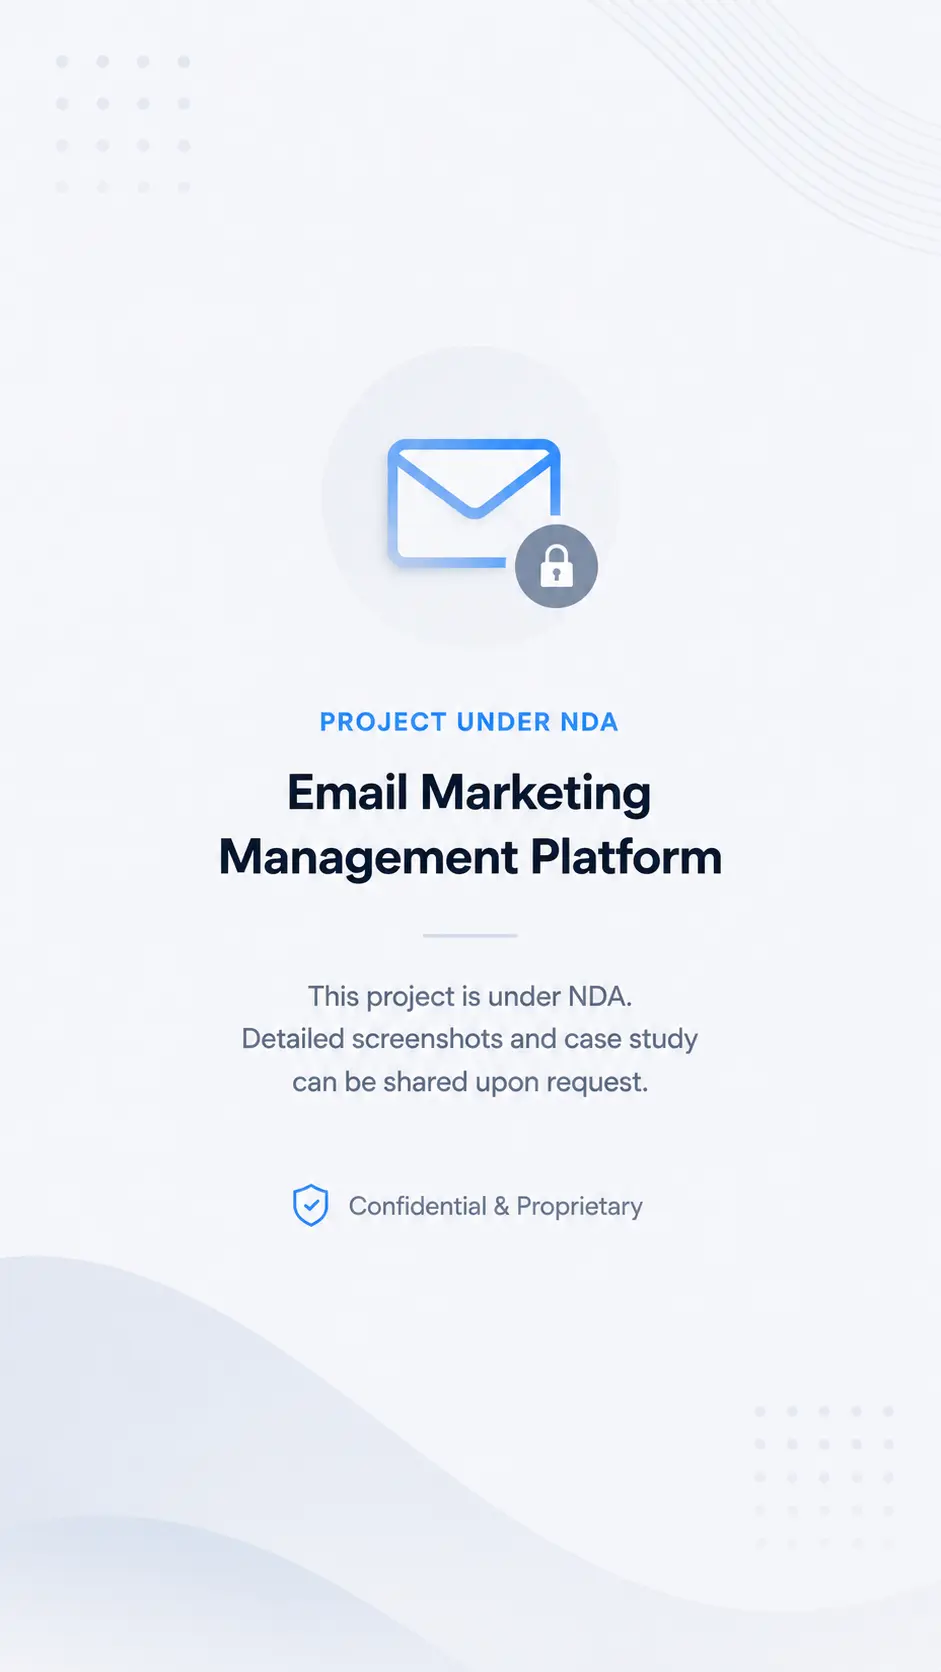
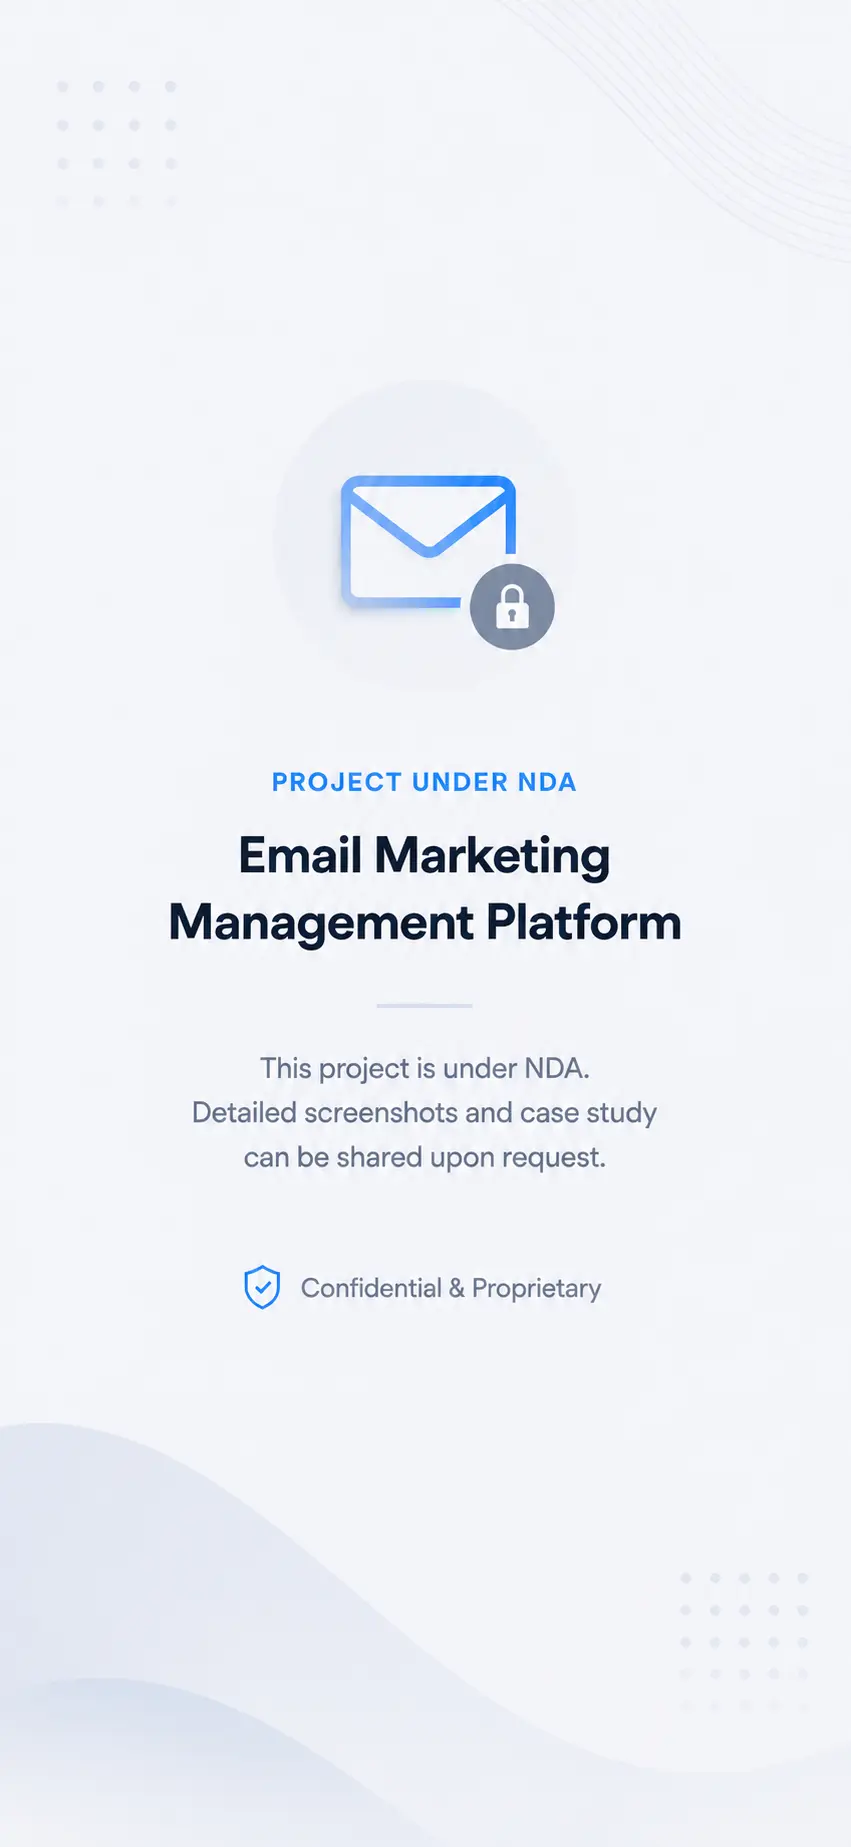
Move project descriptions to markdown
- JSON data is unstylable and hard to edit, so I moved project
descriptions to markdown files in the content directory.
This also allows me to add more detailed descriptions and images
for each project without cluttering the codebase.

diff --git a/pages/projects/index.tsx b/pages/projects/index.tsx
@@ -1,16 +1,23 @@
-import type { NextPage } from "next";
+import type { GetStaticProps, NextPage } from "next";
+import fs from "fs";
+import path from "path";
 import Head from "next/head";
 import HeroSection from "../../components/layout/HeroSection";
 import ProjectSection from "../../components/projects/ProjectSection";
 import heroImg from "../../assets/images/projects-pattern.webp";
 
 import { ProjectSectionProps } from "../../types";
-import items from "../../data/projects.json";
+import projectsData from "../../data/projects.json";
 
 import styles from "../../styles/Main.module.scss";
 
-const Projects: NextPage<ProjectSectionProps> = () => {
-  const itemsToShow = items.sort((a, b) => a.id - b.id);
+type ProjectItem = ProjectSectionProps["project"];
+
+type ProjectsPageProps = {
+  projects: ProjectItem[];
+};
+
+const Projects: NextPage<ProjectsPageProps> = ({ projects }) => {
   const title = "Projects list";
   const description = "List of things that I am working on.";
   const canonicalUrl = "https://jsmonkey.netlify.app/projects";
@@ -39,16 +46,26 @@ const Projects: NextPage<ProjectSectionProps> = () => {
       </Head>
       <main className={styles.main}>
         <HeroSection heading="Projects" image={heroImg} />
-        {itemsToShow.map((item, index) => (
-          <ProjectSection
-            key={item.id}
-            project={item}
-            animate={index > 0 ? true : false} // can't think of anything better right now (
-          />
+        {projects.map((item, index) => (
+          <ProjectSection key={item.id} project={item} animate={index > 0} />
         ))}
       </main>
     </div>
   );
+};
+
+export const getStaticProps: GetStaticProps<ProjectsPageProps> = () => {
+  const contentDir = path.join(process.cwd(), "content", "projects");
+
+  const projects = [...projectsData]
+    .sort((a, b) => a.id - b.id) // id controls display order of the projects
+    .map((item) => {
+      const filePath = path.join(contentDir, `${item.slug}.md`);
+      const description = fs.readFileSync(filePath, "utf-8");
+      return { ...item, description };
+    });
+
+  return { props: { projects } };
 };
 
 export default Projects;

diff --git a/components/projects/ProjectSection.module.sass b/components/projects/ProjectSection.module.sass
@@ -19,13 +19,36 @@
   margin: 0 auto
 
 .description
-  padding: 1rem
+  padding: 1.5rem
   margin: 0 auto
   max-width: $mdContMaxWidth
   display: flex
   flex-direction: column
   justify-content: center
-  
+  @media screen and (min-width: $large)
+    padding: 4rem
+  p
+    text-indent: 1.25rem
+    line-height: 1.5rem
+    margin-top: 0
+    margin-bottom: .4rem
+    @media screen and (min-width: $medium)
+      font-size: 1.25rem
+      line-height: 1.8rem
+  ul
+    padding-left: 1.5rem
+    margin-top: 0
+    margin-bottom: .8rem
+    list-style: disc
+  li
+    line-height: 1.5rem
+    margin-bottom: .3rem
+    @media screen and (min-width: $medium)
+      font-size: 1.25rem
+      line-height: 1.8rem
+  strong
+    font-weight: 600
+
 .projectTitle
   margin: 0
   font-weight: 400
@@ -34,15 +57,6 @@
   text-align: center
   @media screen and (min-width: $medium)
     font-size: 3.5rem
-
-.projectInfo
-  text-indent: 2rem
-  line-height: 1.5rem
-  margin-top: 0
-  margin-bottom: .4rem
-  @media screen and (min-width: $medium)
-    font-size: 1.25rem
-    line-height: 1.8rem
 
 .projectURL
   width: 100%

diff --git a/components/layout/Text/MainPageIntro.tsx b/components/layout/Text/MainPageIntro.tsx
@@ -10,9 +10,12 @@ const MainPageIntro: FC = () => {
       <p className={styles.pageParagraph}>
         I specialize in building modern, scalable web applications with a strong
         focus on front-end architecture, performance, and user experience. My
-        primary stack includes React, Next.js, TypeScript, Redux, TanStack
-        Query, Zustand, and modern JavaScript standards, allowing me to develop
-        maintainable and high-performing interfaces for complex products.
+        primary stack includes{" "}
+        <strong>
+          React, Next.js, TypeScript, Redux, TanStack Query, Zustand
+        </strong>
+        , and modern JavaScript standards, allowing me to develop maintainable
+        and high-performing interfaces for complex products.
       </p>
       <p className={styles.pageParagraph}>
         I have extensive experience designing reusable component systems,
@@ -22,9 +25,10 @@ const MainPageIntro: FC = () => {
         attention to detail and product quality.
       </p>
       <p className={styles.pageParagraph}>
-        On the back end, I work with Node.js, Express, MongoDB, and Mongoose to
-        build reliable APIs and scalable application infrastructure. I also work
-        with authentication systems, validation layers, and modern development
+        On the back end, I work with{" "}
+        <strong>Node.js, Express, MongoDB, and Mongoose</strong> to build
+        reliable APIs and scalable application infrastructure. I also work with
+        authentication systems, validation layers, and modern development
         tooling to support full-stack application development.
       </p>
       <p className={styles.pageParagraph}>
@@ -35,8 +39,13 @@ const MainPageIntro: FC = () => {
       </p>
       <p className={styles.pageParagraph}>
         Beyond implementation, I enjoy improving engineering processes,
-        exploring modern development patterns, and leveraging AI-assisted
-        workflows to increase productivity and code quality.
+        exploring modern development patterns, and integrating{" "}
+        <strong>AI-assisted</strong> workflows into development. I use AI as a
+        practical engineering tool for tasks such as{" "}
+        <strong>planning, debugging, refactoring, and accelerating</strong>{" "}
+        repetitive work, including building custom development agents and
+        structured workflow systems inside VSCode to improve productivity while
+        maintaining full control over architecture and code quality.
       </p>
       <p className={styles.pageParagraph}>
         I am fluent in English and a native speaker of Ukrainian and Russian.

diff --git a/components/projects/ProjectSection.tsx b/components/projects/ProjectSection.tsx
@@ -1,6 +1,7 @@
 import { FC } from "react";
 import Image from "next/image";
 import Link from "next/link";
+import ReactMarkdown from "react-markdown";
 
 import ProjectSlider from "../layout/Slider/ProjectSlider";
 import FadeIn from "../layout/Animation/FadeIn";
@@ -23,11 +24,7 @@ const ProjectSection: FC<ProjectSectionProps> = ({ project, animate }) => {
       </aside>
 
       <div className={styles.description}>
-        {description.map((par, index) => (
-          <p key={index} className={styles.projectInfo}>
-            {par}
-          </p>
-        ))}
+        <ReactMarkdown>{description}</ReactMarkdown>
 
         <div
           className={`${styles.divider} ${styles.divTransparent} ${styles.divStopper}`}

diff --git a/components/layout/Slider/ProjectSlider.module.sass b/components/layout/Slider/ProjectSlider.module.sass
@@ -5,6 +5,8 @@
 
 .slideContainer
   display: flex
+  @media screen and (min-width: $large)
+    min-width: 440px
 
 .slide
   flex: 0 0 100%

diff --git a/types.ts b/types.ts
@@ -26,7 +26,7 @@ export type ProjectSectionProps = {
     imageUrl: string;
     mobileImageUrl: string;
     images: string[];
-    description: string[];
+    description: string;
     logoImgs: string[];
   };
 };

diff --git a/components/layout/HeroSection.module.sass b/components/layout/HeroSection.module.sass
@@ -2,6 +2,7 @@
 
 .parallax
   height: 14rem
+  background-color: black
   @media screen and (min-width: $medium)
     height: 18rem
   @media screen and (min-width: $large)

diff --git a/content/projects/sharlushka.md b/content/projects/sharlushka.md
@@ -1,0 +1,47 @@
+**Sharlushka** is a full-stack, Yahtzee-inspired dice game built as a **Progressive Web App (PWA)**. It was developed as a personal project to exercise **frontend architecture, real-time state management, and production-style game logic**, and evolved into a feature-complete multiplayer platform.
+
+The core gameplay follows the classic Yahtzee scoring model:
+
+- roll five dice,
+- lock the dice you want to keep,
+- re-roll up to two times,
+- select a scoring category.
+
+One of the most complex parts of the project was the **score evaluation engine**. It had to reliably detect combinations such as full house, straights, and other valid categories from a live dice board. That logic was implemented with careful edge-case handling and is covered by **unit tests**.
+
+### Multiplayer architecture
+
+Multiplayer is built on **Socket.IO WebSockets** and supports two players in a shared session with real-time game synchronization.
+
+The frontend is responsible for:
+
+- managing the socket connection lifecycle,
+- synchronizing turns between players,
+- keeping opponent state in sync,
+- isolating multiplayer flow in a dedicated Redux slice and custom hooks.
+
+### Authentication and analytics
+
+Players can register and persist their game history. Completed matches are stored in the backend and visualized on the stats page with **Recharts**.
+
+The **analytics dashboard** includes: combo distribution, win-rate tracking, score trends over time.
+
+### PWA implementation
+
+The application is installable across devices and uses **Workbox** for asset caching and service worker lifecycle management. Updates are handled gracefully, including user prompts when a new version becomes available.
+
+### Tech stack
+
+- React 19, TypeScript
+- Redux Toolkit + RTK Query
+- React Router 7
+- Socket.IO
+- dnd-kit for drag-and-drop dice interactions
+- Framer Motion for UI animations
+- react-hook-form + Zod for form validation
+- Recharts
+- Webpack 5 with a custom configuration
+- Sass modules
+- Netlify for hosting
+
+The main engineering challenges were the **deterministic scoring logic** and the later transition from a single-player application model to a **stateful real-time multiplayer architecture**.

diff --git a/content/projects/ongage.md b/content/projects/ongage.md
@@ -1,0 +1,36 @@
+**Ongage** is a large-scale, multi-tenant email marketing SaaS platform. I built and maintained the **React frontend** that gives marketers control over the full lifecycle of an email program — from subscriber acquisition and list management to campaign execution and post-campaign analysis.
+
+The product supports the entire email marketing workflow:
+
+- importing, segmenting, and exporting subscriber lists,
+- managing contact statuses and field-level data across millions of records,
+- creating, scheduling, and A/B testing email and SMS campaigns,
+- tracking real-time send statistics,
+- building automated journeys such as **welcome series** and **re-engagement flows** through a node-based drag-and-drop workflow editor,
+- configuring and switching between multiple **ESP** and **SMTP** delivery providers through a unified vendor management interface,
+- running bulk email validation against a third-party service with status tracking and downloadable results,
+- analyzing campaign performance through dashboards with overview charts, aggregate tables, and deliverability metrics.
+
+### AI features
+
+AI is integrated across the platform in three distinct layers:
+
+- **AI Analytics** — users can ask questions in plain English, such as _“Which campaigns had the highest open rate last month?”_, and receive structured results rendered as interactive charts alongside a conversational answer. A thumbs-up / thumbs-down feedback loop helps improve accuracy over time.
+- **AI Email Template Generator** — guides users through a short brief covering tone, audience, goal, language, and email type, then generates a fully styled HTML template that can be previewed and saved as a new message.
+- **CopilotKit AI assistant** — a persistent in-app chat sidebar that understands the current page context, can navigate across the application, and can create, update, or delete entities such as campaigns, segments, automations, and vendor connections on the user’s behalf. Relevant UI caches are refreshed automatically after each action through **MCP (Model Context Protocol)**.
+
+### Engineering architecture
+
+The frontend followed a strict **modular feature architecture**, where each domain owned its own API clients, Zustand stores, TanStack Query hooks, and UI components. This kept pages thin and business logic co-located.
+
+Key implementation details included:
+
+- a three-variant **TanStack Table** setup for server-paginated, client-paginated, and context-free tables,
+- persistent column visibility and column ordering,
+- Firebase authentication with token-refresh interceptors wired into all API and AI requests,
+- strict TypeScript across the codebase,
+- ESLint with `exhaustive-deps` enforced as an error,
+- Prettier formatting,
+- Husky pre-commit hooks to keep the codebase consistent across a large team.
+
+The main challenges were the scale of the data model, the complexity of multi-tenant UX flows, and keeping the frontend architecture maintainable while supporting a growing number of features and AI-driven interactions.

diff --git a/content/projects/rosterly.md b/content/projects/rosterly.md
@@ -1,0 +1,32 @@
+Agency Roster is a full-stack platform that connects marketing brands with creative and media agencies. Marketers can submit a search brief, receive an AI-generated shortlist of matched agencies ranked by compatibility, schedule introductory calls with selected candidates, and track the entire process through a unified dashboard. Agencies on the other side manage their profile, respond to incoming invitations, and submit proposals — all within the same application.
+
+The frontend is a single-page application built with **React 19** and **TypeScript**, bundled with **Vite** and styled using a combination of **Tailwind CSS** utility classes and **CSS Modules** written in SCSS syntax. Routing is handled by **React Router v7**, and all server state is managed through **TanStack Query v5** paired with **Axios**, which provides consistent caching, background refetching, and optimistic update patterns across the entire data layer. Data tables throughout the admin and marketer interfaces are powered by **TanStack Table v8**, offering column-level filtering, pagination, and sortable headers without sacrificing control over rendering.
+
+Authentication is delegated to **Stytch**, whose React SDK handles session management, magic links, and password flows. The resulting session token is stored in a React context and consumed by a shared hook throughout the component tree, enabling granular role-based rendering for the three distinct user roles: **admin**, **marketer**, and **agency**. Form handling relies on **Formik** with **Yup** schemas for validation, including a shared configuration layer that enforces consistent field constraints across the application.
+
+### AI-powered agency matching
+
+The core feature of the platform accepts a marketer's brief — optionally with attached documents sent as multipart form data — and returns a scored list of agencies, each accompanied by a **capability map** visualised as a radar chart using **Recharts**. Each agency result includes:
+
+- a compatibility score across dimensions such as capabilities, expertise, collaboration, and cultural values
+- an AI-generated summary and consultant review
+- a "top recommendation" designation that admins can assign before publishing the report
+
+The same charting library drives the analytics dashboards, which surface engagement metrics and historical search data. Completed AI search reports can be exported to **PDF** through an `html2canvas` and `jsPDF` pipeline that applies a separate stylesheet to the document during capture, isolating print-specific layout from the interactive view.
+
+### Chemistry meetings and RFPs
+
+The chemistry meeting workflow lets marketers select agencies from an AI report, propose available time slots with timezone-aware date handling via **date-fns**, and send invitations in bulk. Agencies receive those invitations as **RFPs** and can:
+
+- accept or decline the invitation
+- upload supporting files through a dedicated dropzone modal
+- request alternative time slots if none of the proposed ones work
+- submit a final proposal once a time is confirmed
+
+The entire notification layer uses a **server-sent events** stream, with unread counts and real-time updates surfaced through a slide-in drawer.
+
+### Accessibility and code quality
+
+Accessibility is a first-class concern: interactive components such as modals, dropdowns, select fields, and date pickers are built on top of **React Aria Components**, which provides ARIA attribute management, keyboard navigation, and focus trapping out of the box. Loading states use `react-loading-skeleton` to maintain layout stability during data fetches, and toast notifications via **react-hot-toast** give users consistent feedback for mutations.
+
+Code quality is enforced through **ESLint**, **Prettier**, and **Husky** pre-commit hooks with `lint-staged`, ensuring TypeScript, formatting, and linting checks all pass before any commit lands.

diff --git a/content/projects/artviva.md b/content/projects/artviva.md
@@ -1,0 +1,22 @@
+**Artviva School** is a full-stack web platform built to support the school’s online presence and core administrative workflows. The frontend was implemented with **React** and **Bootstrap**, while the backend was built with **Node.js** and deployed on **Heroku**.
+
+The platform combines several key capabilities:
+
+- secure tuition payment processing through **LiqPay**,
+- online application submission for prospective students,
+- informational pages such as **About**, **Team**, and **Contacts**,
+- a responsive UI designed to work smoothly across devices.
+
+From an engineering perspective, the project focused on delivering a practical, maintainable system that streamlined communication between students and the school. Payment handling and application submission were integrated into the backend to keep the user experience simple while maintaining a clean separation between frontend presentation and server-side logic.
+
+To support continuous improvement, the website was instrumented with **Google Analytics**. This made it possible to track traffic patterns, user behavior, and engagement metrics, and to use that data to refine content, navigation, and overall site structure.
+
+The result was a reliable school platform that combined:
+
+- student-facing functionality,
+- secure payment integration,
+- content-driven pages,
+- analytics-based decision making,
+- a responsive React UI.
+
+The main value of the project was building a centralized, user-friendly system that handled both informational and transactional workflows in one place.

diff --git a/content/projects/huma.md b/content/projects/huma.md
@@ -1,0 +1,21 @@
+This project started as a performance-focused rebuild of an existing website. The original implementation was based on **Handlebars** and **Webpack 4**, and the initial goal was to improve both **UI responsiveness** and **build/load performance**. As the requirements evolved, the project was upgraded to **Webpack 5** and later fully rebuilt with **Next.js** and **TypeScript** to modernize the architecture and improve long-term maintainability.
+
+Rebuilding with **Next.js** introduced a more scalable React-based structure and enabled performance optimizations such as:
+
+- faster page loads,
+- improved rendering behavior,
+- better overall user experience,
+- a more maintainable frontend architecture.
+
+Adding **TypeScript** improved type safety, reduced the risk of runtime issues, and made the codebase easier to evolve as the project grew.
+
+To simplify content updates, we integrated **Netlify CMS**, a headless CMS that allowed editors to manage site content without developer intervention. This reduced the dependency on engineering for routine updates and made the workflow more efficient for both technical and non-technical contributors.
+
+The result was a website that combined:
+
+- better performance,
+- cleaner architecture,
+- improved developer experience,
+- editor-friendly content management.
+
+The main value of the rewrite was not only the technical migration itself, but the shift toward a more modern, maintainable, and scalable platform.